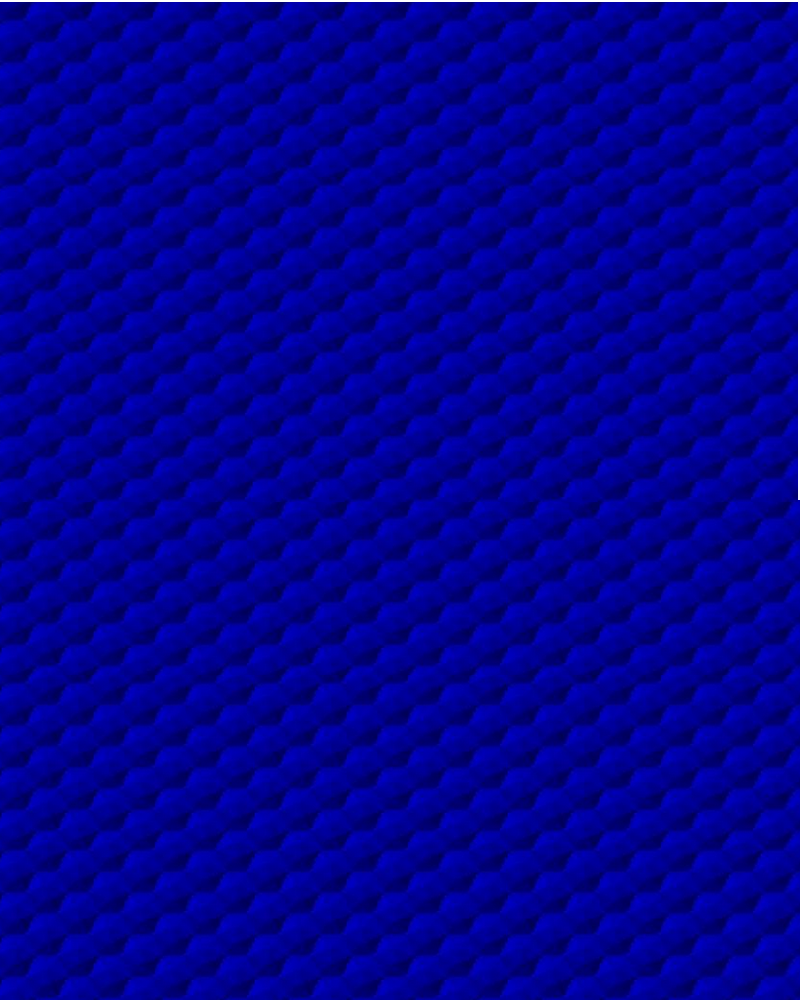
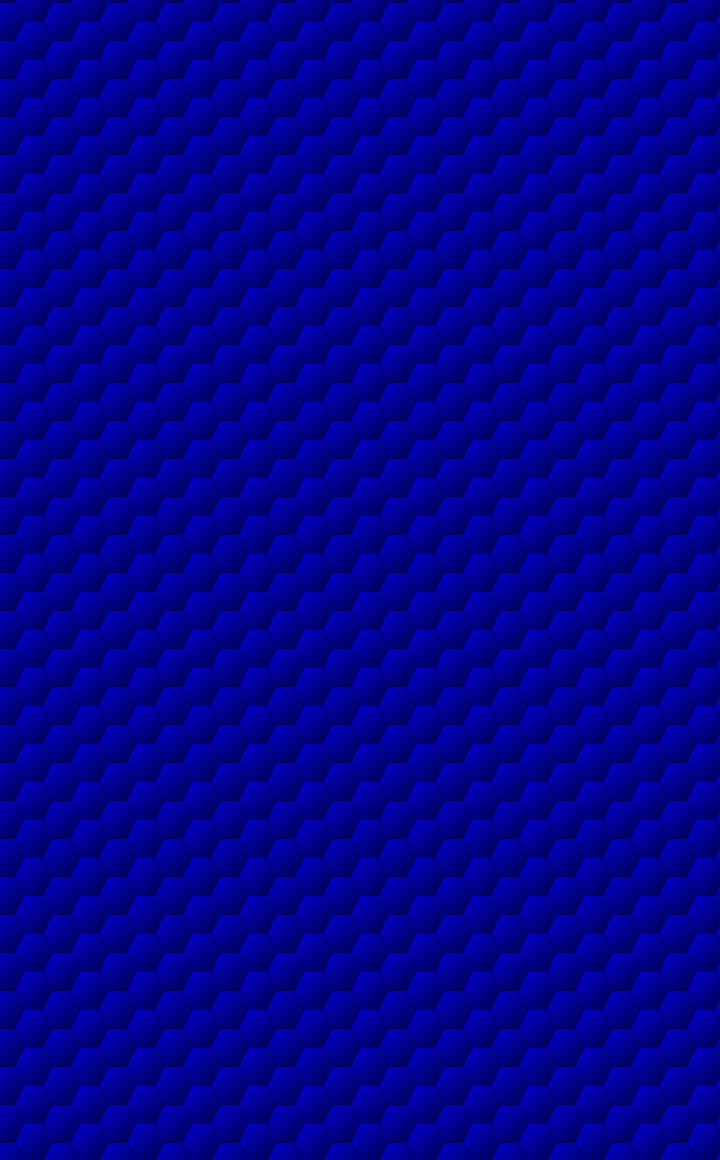
update tekstury tła

diff --git a/Arcanoid/Arcanoid/States/GameplayComponent.cs b/Arcanoid/Arcanoid/States/GameplayComponent.cs
@@ -13,20 +13,21 @@ namespace Arcanoid.States
     {
         private bool isLoaded = false;
 
+        //PADDLE
         Paddle paddle;
         Rectangle paddleBounds;
+        Texture2D paddleTexture;
+        //PADDLE SECTIONS
         Rectangle paddleSectionLeft;
         Rectangle paddleSectionCenter;
         Rectangle paddleSectionRight;
-
-
+        //BALL
         Ball ball;
         Rectangle ballBounds;
-
+        Texture2D ballTexture;
+        //GAMESPACE
         Texture2D backgroundTexture;
         Texture2D boundsTexture;
-        Texture2D paddleTexture;
-        Texture2D ballTexture;
         Rectangle gameSpace;
         Rectangle gameSpaceLeft;
         Rectangle gameSpaceTop;
@@ -34,26 +35,10 @@ namespace Arcanoid.States
 
         public void LoadContent()
         {
-            //Pole Gry
-            gameSpace = new Rectangle(30, 40, 340, 580);
-            gameSpaceLeft = new Rectangle(gameSpace.Left, gameSpace.Top, 0, gameSpace.Height);
-            gameSpaceTop = new Rectangle(gameSpace.Left, gameSpace.Top, gameSpace.Width, 0);
-            gameSpaceRight = new Rectangle(gameSpace.Right, gameSpace.Top, 0, gameSpace.Height);
-
-            //paddle
-            paddle = new Paddle(72, 3, (gameSpace.Width / 2));
-            paddleBounds = new Rectangle(paddle.PositionX, Globals.graphics.PreferredBackBufferHeight - 40, paddle.SizeX, 15);
-
-            //ball
-            ball = new Ball(5, 15, 0, 1, gameSpace.Center.X - 10, 300);
-            ballBounds = new Rectangle(ball.PositionX, ball.PositionY, ball.Size, ball.Size);
-
-            //tekstury 
-            backgroundTexture = Globals.contentManager.Load<Texture2D>("background");
-            boundsTexture = Globals.contentManager.Load<Texture2D>("bounds");
-            paddleTexture = Globals.contentManager.Load<Texture2D>("paddle");
-            ballTexture = Globals.contentManager.Load<Texture2D>("ball");
-
+            LoadGameSpace();
+            LoadDynamics();
+            LoadTextures();
+           
             //flaga do loadContent
             isLoaded = !isLoaded;
         }
@@ -190,6 +175,35 @@ namespace Arcanoid.States
                 }
             }
             paddleBounds = new Rectangle(paddle.PositionX, Globals.graphics.PreferredBackBufferHeight - 40, paddle.SizeX, 10);
+        }
+
+        public void LoadGameSpace()
+        {
+            //Pole Gry
+            gameSpace = new Rectangle(30, 40, 340, 580);
+            gameSpaceLeft = new Rectangle(gameSpace.Left, gameSpace.Top, 0, gameSpace.Height);
+            gameSpaceTop = new Rectangle(gameSpace.Left, gameSpace.Top, gameSpace.Width, 0);
+            gameSpaceRight = new Rectangle(gameSpace.Right, gameSpace.Top, 0, gameSpace.Height);
+        }
+
+        public void LoadDynamics()
+        {
+            //paddle
+            paddle = new Paddle(72, 3, (gameSpace.Width / 2));
+            paddleBounds = new Rectangle(paddle.PositionX, Globals.graphics.PreferredBackBufferHeight - 40, paddle.SizeX, 15);
+
+            //ball
+            ball = new Ball(5, 15, 0, 1, gameSpace.Center.X - 10, 300);
+            ballBounds = new Rectangle(ball.PositionX, ball.PositionY, ball.Size, ball.Size);
+        }
+
+        public void LoadTextures()
+        {
+            //tekstury 
+            backgroundTexture = Globals.contentManager.Load<Texture2D>("background");
+            boundsTexture = Globals.contentManager.Load<Texture2D>("bounds");
+            paddleTexture = Globals.contentManager.Load<Texture2D>("paddle");
+            ballTexture = Globals.contentManager.Load<Texture2D>("ball");
         }
     }
 }

diff --git a/Arcanoid/Arcanoid/Block.cs b/Arcanoid/Arcanoid/Block.cs
@@ -1,0 +1,54 @@
+using System;
+using System.Collections.Generic;
+using System.Linq;
+using System.Text;
+using System.Threading.Tasks;
+
+namespace Arcanoid
+{
+    class Block
+    {
+        //0 - non existant
+        //1 - orange - one hit to destroy
+        //2 - red - two hits to destroy
+        //3 - gray - indestructible
+        private int state;
+        private int row;
+        private int column;
+
+        public Block(int state, int row, int column)
+        {
+            this.state = state;
+            this.row = row;
+            this.column = column;
+        }
+
+        public int State
+        {
+            get
+            {
+                return state;
+            }
+            set
+            {
+                state = value;
+            }
+        }
+
+        public int Row
+        {
+            get
+            {
+                return row;
+            }
+        }
+
+        public int Column
+        {
+            get
+            {
+                return column;
+            }
+        }
+    }
+}
